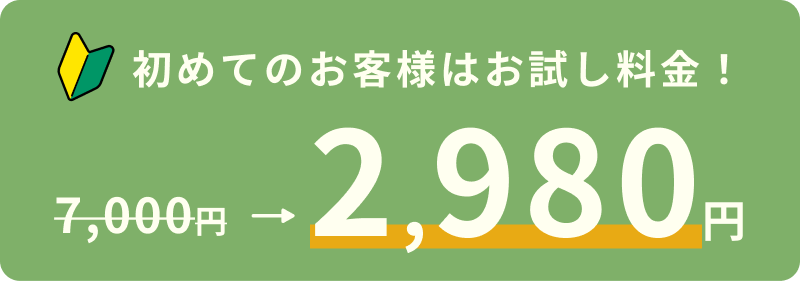
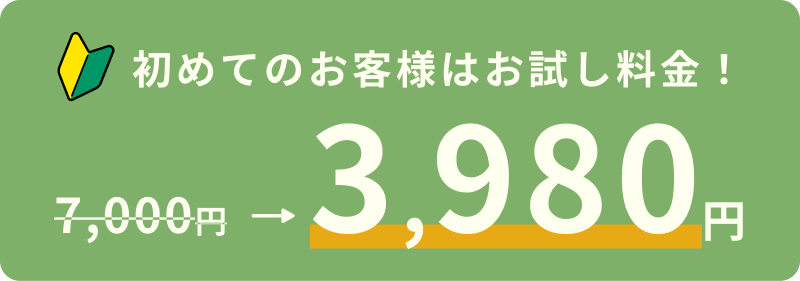
料金表示を2980円から3980円に更新

diff --git a/src/pages/index.tsx b/src/pages/index.tsx
@@ -166,7 +166,7 @@ const HomePage: NextPage<Props> = ({ voices }) => {
               <a className={`hover:opacity-75 transition-opacity`}>
                 <Image
                   src={'/assets/images/price-bnr.png'}
-                  alt="初めてのお客様はお試し料金！ 2980円"
+                  alt="初めてのお客様はお試し料金！ 3980円"
                   width={400}
                   height={140}
                   quality={100}
@@ -259,7 +259,7 @@ const HomePage: NextPage<Props> = ({ voices }) => {
                 <a className={`hover:opacity-75 transition-opacity`}>
                   <Image
                     src={'/assets/images/price-bnr.png'}
-                    alt="初めてのお客様はお試し料金！ 2980円"
+                    alt="初めてのお客様はお試し料金！ 3980円"
                     width={400}
                     height={140}
                     quality={100}

diff --git a/src/pages/beginner/index.tsx b/src/pages/beginner/index.tsx
@@ -30,7 +30,7 @@ const BeginnerPage: NextPage = () => {
             <span className={`mx-3`}>→</span>
             <span className={`flex flex-col items-center`}>
               <span className={`font-bold leading-none text-green03`}>
-                <span className={`text-[40px] md:text-[60px]`}>2</span>
+                <span className={`text-[40px] md:text-[60px]`}>3</span>
                 <span className={`text-[22px] md:text-[30px]`}>,</span>
                 <span className={`text-[40px] md:text-[60px]`}>980</span>
                 <span className={`text-[16px] md:text-[20px]`}>円</span>

diff --git a/src/pages/price/index.tsx b/src/pages/price/index.tsx
@@ -28,7 +28,7 @@ const PricePage: NextPage = () => {
             <span className={`mx-3`}>→</span>
             <span className={`flex flex-col items-center`}>
               <span className={`text-green03 font-bold leading-none`}>
-                <span className={`text-[40px] md:text-[60px]`}>2</span>
+                <span className={`text-[40px] md:text-[60px]`}>3</span>
                 <span className={`text-[22px] md:text-[30px]`}>,</span>
                 <span className={`text-[40px] md:text-[60px]`}>980</span>
                 <span className={`text-[16px] md:text-[20px]`}>円</span>
